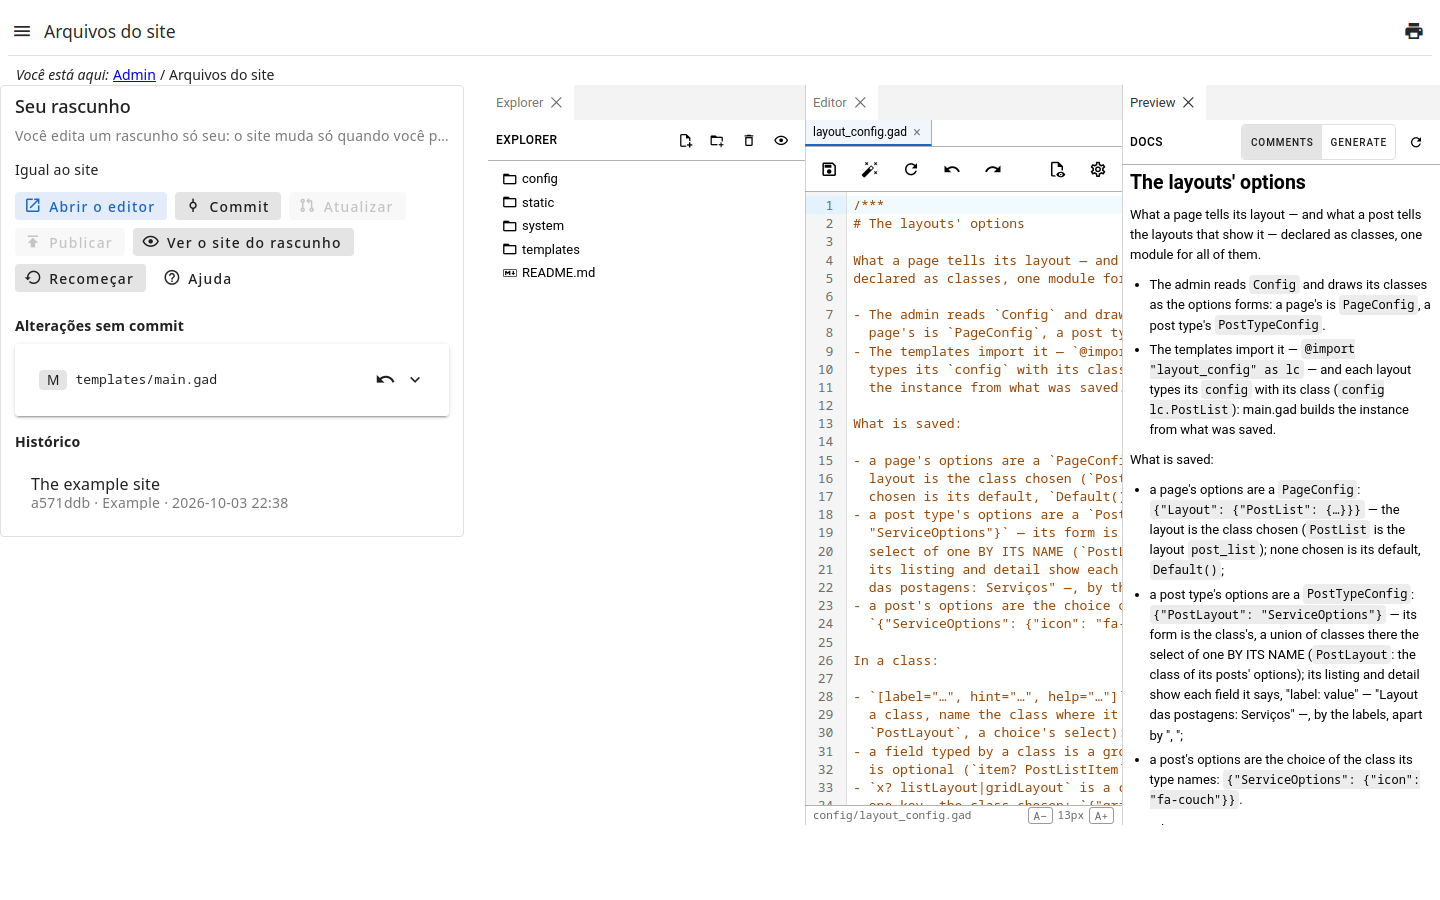
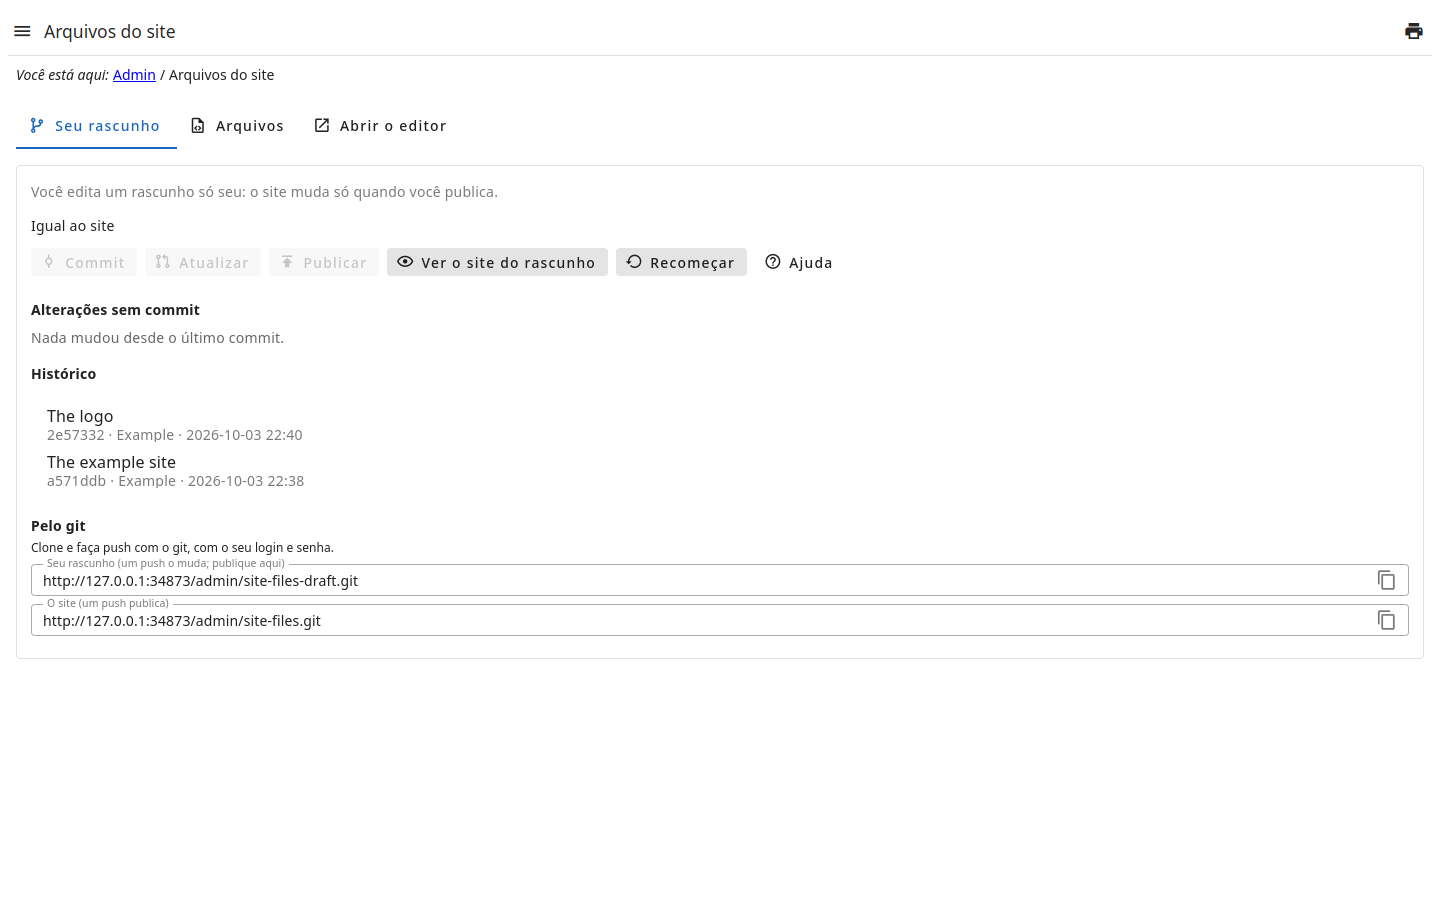
gitedit: a página em abas — Seu rascunho, Arquivos (a IDE) e, à direita, Abrir o editor (uma aba do navegador); margem no conteúdo
O título "Seu rascunho" sai do card e vira a aba; docs e prints refeitos
(o novo files.png, a aba Arquivos).

diff --git a/admin/packages/gitedit/builder.go b/admin/packages/gitedit/builder.go
@@ -494,9 +494,6 @@ func (b *Builder) pageFunc(ctx *web.EventContext) (r web.PageResponse, err error
 	}
 
 	ideURL := strings.TrimSuffix(b.idePage.FullPath(), "{rest...}") + "index.html"
-	// the IDE in a tab of its own, the whole window
-	openIDE := v.VBtn(m.OpenIDE).PrependIcon("mdi-open-in-new").Variant(v.VariantTonal).Color("primary").
-		Size(v.SizeSmall).Class("me-2 mb-2").Href(ideURL).Attr("target", "_blank")
 	var help h.HTMLComponent
 	if b.HelpURL != "" {
 		help = v.VBtn(m.Help).PrependIcon("mdi-help-circle-outline").Variant(v.VariantText).Size(v.SizeSmall).
@@ -508,36 +505,49 @@ func (b *Builder) pageFunc(ctx *web.EventContext) (r web.PageResponse, err error
 			Class("me-2 mb-2").Href(b.PreviewURL).Attr("target", "_blank")
 	}
 
+	draft := v.VCard(
+		v.VCardSubtitle(h.Text(m.DraftHint)).Class("pt-4"),
+		v.VCardText(
+			h.P(h.Text(state)).Class("mb-3"),
+			btn(ActionCommit, m.CommitAction, "mdi-source-commit", len(changes) > 0),
+			btn(ActionUpdate, m.UpdateAction, "mdi-source-pull", sync.Behind > 0),
+			btn(ActionPublish, m.PublishAction, "mdi-publish", sync.Ahead > 0 && len(changes) == 0),
+			preview,
+			btn(ActionReset, m.ResetAction, "mdi-restore", true),
+			help,
+			h.H4(m.Changes).Class("mt-4 mb-2"),
+			changesComp,
+			h.H4(m.History).Class("mt-4 mb-2"),
+			v.VList(logItems...).Density(v.DensityCompact),
+			b.gitURLs(ctx, m, allowed),
+		),
+	).Variant(v.VariantOutlined)
+
+	// the draft and the IDE in tabs; at their right, a tab that opens the IDE
+	// in a tab of the browser of its own, the whole window — a link: it is
+	// never the tab shown (the update of the model leaves it out)
+	tabs := web.Scope(
+		v.VTabs(
+			v.VTab(h.Text(m.Draft)).Value("draft").PrependIcon("mdi-source-branch"),
+			v.VTab(h.Text(m.Files)).Value("ide").PrependIcon("mdi-file-code-outline"),
+			v.VTab(h.Text(m.OpenIDE)).Value("open").PrependIcon("mdi-open-in-new").
+				Attr("href", ideURL).Attr("target", "_blank").Attr("data-open-ide", true),
+		).Attr(":model-value", "locals.tab").
+			Attr("@update:model-value", "(t) => { if (t !== 'open') locals.tab = t }").
+			Color("primary").Class("mb-4"),
+		v.VTabsWindow(
+			v.VTabsWindowItem(draft).Value("draft"),
+			v.VTabsWindowItem(
+				h.Iframe().Src(ideURL).Attr("title", m.Files).
+					Style("width: 100%; height: calc(100vh - 220px); border: 0"),
+			).Value("ide"),
+		).Attr("v-model", "locals.tab"),
+	).Slot("{ locals }").LocalsInit(`{tab: "draft"}`)
+
 	r.Body = h.Div(
 		web.Portal().Name(portal),
-		v.VRow(
-			v.VCol(
-				v.VCard(
-					v.VCardTitle(h.Text(m.Draft)),
-					v.VCardSubtitle(h.Text(m.DraftHint)),
-					v.VCardText(
-						h.P(h.Text(state)).Class("mb-3"),
-						openIDE,
-						btn(ActionCommit, m.CommitAction, "mdi-source-commit", len(changes) > 0),
-						btn(ActionUpdate, m.UpdateAction, "mdi-source-pull", sync.Behind > 0),
-						btn(ActionPublish, m.PublishAction, "mdi-publish", sync.Ahead > 0 && len(changes) == 0),
-						preview,
-						btn(ActionReset, m.ResetAction, "mdi-restore", true),
-						help,
-						h.H4(m.Changes).Class("mt-4 mb-2"),
-						changesComp,
-						h.H4(m.History).Class("mt-4 mb-2"),
-						v.VList(logItems...).Density(v.DensityCompact),
-						b.gitURLs(ctx, m, allowed),
-					),
-				).Variant(v.VariantOutlined),
-			).Cols(12).Lg(4),
-			v.VCol(
-				h.Iframe().Src(ideURL).Attr("title", m.Files).
-					Style("width: 100%; height: calc(100vh - 160px); border: 0"),
-			).Cols(12).Lg(8),
-		),
-	)
+		tabs,
+	).Class("pa-4")
 	return
 }
 

diff --git a/admin/packages/gitedit/user_docs/pt-BR/pages/site-files/README.md b/admin/packages/gitedit/user_docs/pt-BR/pages/site-files/README.md
@@ -4,15 +4,24 @@ Os arquivos de que o site é feito — templates, estilos, scripts e imagens —
 editados aqui, num **rascunho** só seu: o site muda só quando você
 **publica**.
 
-![O editor dos arquivos do site: o rascunho, as alterações e o histórico, e os arquivos](images/page.png)
+![A aba Seu rascunho: o estado do rascunho, as ações, as alterações e o histórico](images/page.png)
 
 Passo a passo, com o desenvolvimento local: o guia {%= admin.doc("guides/site-files").link %} — também o botão **Ajuda** da página.
 
-- **Arquivos** é o editor, à direita (em telas estreitas, abaixo): a árvore
-  dos arquivos, e cada arquivo aberto numa aba. **Abrir o editor** o abre numa
-  aba só dele, na janela inteira. Salvar muda só o seu rascunho.
-- **Seu rascunho** diz onde ele está: commits para publicar, commits que
-  outros publicaram e ele não tem.
+A página tem três abas:
+
+- **Seu rascunho** — a primeira — diz onde ele está: commits para publicar,
+  commits que outros publicaram e ele não tem; e reúne as ações abaixo, as
+  alterações e o histórico.
+- **Arquivos** é o editor: a árvore dos arquivos, e cada arquivo aberto numa
+  aba. Salvar muda só o seu rascunho.
+- **Abrir o editor**, à direita das outras, abre o editor numa aba do
+  navegador só dele, na janela inteira; a página fica na aba em que estava.
+
+![A aba Arquivos: o editor](images/files.png)
+
+Em **Seu rascunho**:
+
 - **Alterações sem commit** lista cada arquivo mudado desde o último commit;
   abra para ver o que mudou. **Descartar** desfaz as alterações de um arquivo.
 - **Commit** registra as alterações, com uma mensagem dizendo o que são; o

diff --git a/admin/packages/gitedit/user_docs/en/pages/site-files/README.md b/admin/packages/gitedit/user_docs/en/pages/site-files/README.md
@@ -4,15 +4,25 @@ The files the site is made of — its templates, styles, scripts and images —
 edited here, in a **draft** of your own: the site changes only when you
 **publish**.
 
-![The editor of the site files: the draft, its changes and history, and the files](images/page.png)
+![The tab Your draft: where the draft stands, the actions, the changes and the history](images/page.png)
 
 Step by step, with the local development: the guide {%= admin.doc("guides/site-files").link %} — also the page's **Help** button.
 
-- **Files** is the editor, on the right (on narrow screens, below): the tree of
-  the files, and each file open in a tab. **Open the editor** opens it in a tab
-  of its own, the whole window. Saving changes your draft only.
-- **Your draft** says where it stands: commits to publish, commits others
-  published that it does not have.
+The page has three tabs:
+
+- **Your draft** — the first — says where it stands: commits to publish,
+  commits others published that it does not have; and holds the actions
+  below, the changes and the history.
+- **Files** is the editor: the tree of the files, and each file open in a
+  tab. Saving changes your draft only.
+- **Open the editor**, at the right of the others, opens the editor in a tab
+  of the browser of its own, the whole window; the page stays on the tab it
+  was on.
+
+![The tab Files: the editor](images/files.png)
+
+In **Your draft**:
+
 - **Changes not committed** lists each file changed since the last commit;
   open it to see what changed. **Discard** drops the changes of a file.
 - **Commit** records the changes, with a message saying what they are; the

diff --git a/admin/packages/gitedit/user_docs/en/guides/site-files/01-edit/README.md b/admin/packages/gitedit/user_docs/en/guides/site-files/01-edit/README.md
@@ -6,8 +6,8 @@ only — the site and the drafts of the others stay as they are.
 
 ![A file changed in the draft, its diff open](images/changes.png)
 
-- **Files**, on the right, is the editor: the tree of the files at its left,
-  each file open in a tab. Save with the tab's button or Ctrl+S.
+- The tab **Files** is the editor: the tree of the files at its left, each
+  file open in a tab. Save with the tab's button or Ctrl+S.
 - From the buttons above the tree: create files and folders; **upload** files
   from the computer (or drop them on the tree) and **import from a URL** —
   images and fonts too, as they are —; **rename**, **move** to another folder
@@ -15,7 +15,7 @@ only — the site and the drafts of the others stay as they are.
   the step **Permissions**).
 - The editor formats and checks the `.gad`/`.gadx` files; it does not run
   code.
-- **Changes not committed**, on the left, lists each file changed since the
+- **Changes not committed**, in the tab **Your draft**, lists each file changed since the
   last commit; open one to see what changed. **Discard** drops its changes.
 - **Start over** drops the whole draft (the commits not published too): a new
   one is made from the site.
@@ -26,7 +26,8 @@ of the layouts).
 
 ## The editor in a tab of its own
 
-**Open the editor** opens the editor in a tab of the browser, with more room.
+**Open the editor**, the tab at the right of the others, opens the editor in
+a tab of the browser, with more room.
 It has three panels: **Explorer** (the tree of the files), **Editor** (the
 files open, one per tab) and **Preview**, which shows the open file as its
 type is:

diff --git a/admin/packages/gitedit/user_docs/pt-BR/guides/site-files/01-edit/README.md b/admin/packages/gitedit/user_docs/pt-BR/guides/site-files/01-edit/README.md
@@ -6,7 +6,7 @@ rascunho — o site e os rascunhos dos outros ficam como estão.
 
 ![Um arquivo alterado no rascunho, com o diff aberto](images/changes.png)
 
-- **Arquivos**, à direita, é o editor: a árvore dos arquivos à esquerda dele,
+- A aba **Arquivos** é o editor: a árvore dos arquivos à esquerda dele,
   cada arquivo aberto numa aba. Salve com o botão da aba ou com Ctrl+S.
 - Pelos botões acima da árvore: criar arquivos e pastas; fazer **upload** de
   arquivos do computador (ou soltá-los na árvore) e **importar de uma URL** —
@@ -15,7 +15,7 @@ rascunho — o site e os rascunhos dos outros ficam como estão.
   fazê-lo (veja o passo **Permissões**).
 - O editor formata e confere os arquivos `.gad`/`.gadx`; ele não executa
   código.
-- **Alterações sem commit**, à esquerda, lista cada arquivo mudado desde o
+- **Alterações sem commit**, na aba **Seu rascunho**, lista cada arquivo mudado desde o
   último commit; abra um para ver o que mudou. **Descartar** desfaz as
   alterações dele.
 - **Recomeçar** descarta o rascunho inteiro (os commits não publicados
@@ -27,7 +27,8 @@ dos layouts).
 
 ## O editor numa aba própria
 
-**Abrir o editor** abre o editor numa aba do navegador, com mais espaço. Ele
+**Abrir o editor**, a aba à direita das outras, abre o editor numa aba do
+navegador, com mais espaço. Ele
 tem três painéis: **Explorer** (a árvore dos arquivos), **Editor** (os
 arquivos abertos, um por aba) e **Preview**, que mostra o arquivo aberto
 conforme o tipo dele:
